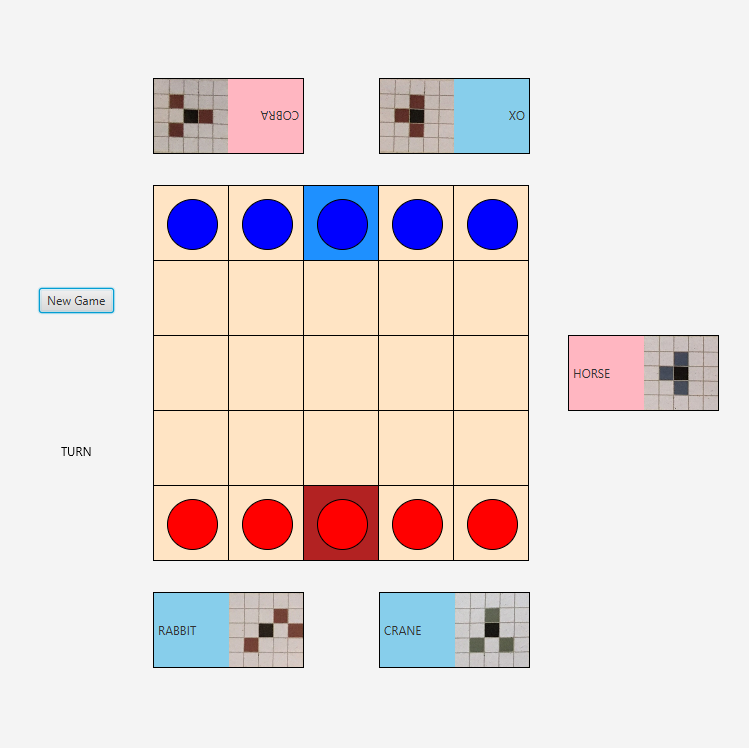
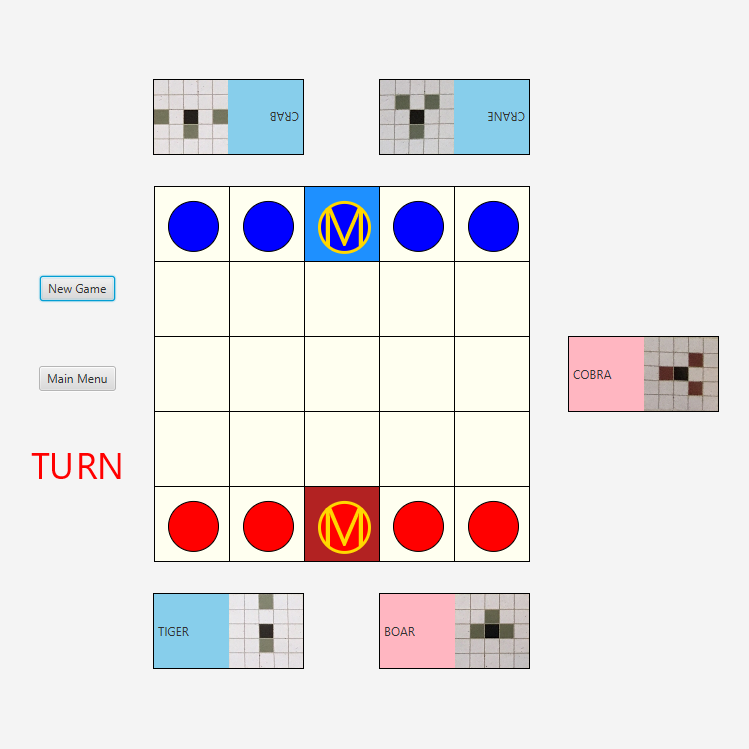
finished

diff --git a/BoardGame/src/game/MainMenu.java b/BoardGame/src/game/MainMenu.java
@@ -1,7 +1,8 @@
 package game;
 
-import java.util.ArrayList;
+//Heavy inspiration from Almas Baimagambetov (almaslvl@gmail.com) to create this game
 
+import java.util.ArrayList;
 import game.Card.CardType;
 import game.MoveResult.MoveType;
 import game.Pawn.PawnSet;
@@ -14,14 +15,13 @@ import javafx.scene.layout.VBox;
 import javafx.scene.paint.Color;
 import javafx.scene.text.Text;
 import javafx.scene.layout.BorderPane;
+import javafx.scene.layout.GridPane;
 import javafx.scene.layout.HBox;
 import javafx.scene.layout.StackPane;
 import javafx.scene.control.Button;
-import javafx.scene.control.Label;
 import javafx.scene.image.ImageView;
 import javafx.scene.image.Image;
 import javafx.geometry.*;
-
 
 public class MainMenu extends Application { 
 	private Stage primaryStage;
@@ -35,96 +35,6 @@ public class MainMenu extends Application {
 		public static final int TILE_SIZE = 75;
 		public static final int WIDTH = 5;
 		public static final int HEIGHT = 5;
-	}
-	
-	private Pawn createPawn(PawnSet set, int x, int y)  {
-		Pawn pawn = new Pawn(set, x, y);
-		
-		pawn.setOnMouseReleased(e -> {
-			int newX = toBoard(pawn.getLayoutX());
-			int newY = toBoard(pawn.getLayoutY());
-			MoveResult result = tryMove(pawn, newX, newY);
-			int x0 = toBoard(pawn.getOldX());
-			int y0 = toBoard(pawn.getOldY());
-			switch(result.getType()) {
-				case NONE:
-					pawn.dontMove();
-					break;
-				case NORMAL:
-					pawn.move(newX, newY);
-					board[x0][y0].setPawn(null);
-					board[newX][newY].setPawn(pawn);
-					break;
-				case KILL:
-					pawn.move(newX, newY);
-					board[x0][y0].setPawn(null);
-					board[newX][newY].setPawn(pawn);
-					Pawn pawn2 = result.getPawn();
-					board[toBoard(pawn2.getOldX())][toBoard(pawn2.getOldY())].setPawn(null);
-					pawnGroup.getChildren().remove(pawn2);
-			}
-		});
-		
-		return pawn;
-	}
-	
-	private MoveResult tryMove(Pawn pawn, int newX, int newY) {
-		if(board[newX][newY].hasPawn() == true) {
-			if (board[newX][newY].getPawn().getSet() == pawn.getSet()) {
-				return new MoveResult(MoveType.NONE);
-			} else {
-				return new MoveResult(MoveType.KILL);
-			}
-		} else {
-			return new MoveResult(MoveType.NORMAL);
-		}
-	}
-	
-	private MasterPawn createMaster(PawnSet set, int x, int y)  {
-		MasterPawn master = new MasterPawn(set, x, y);
-		
-		master.setOnMouseReleased(e -> {
-			int newX = toBoard(master.getLayoutX());
-			int newY = toBoard(master.getLayoutY());
-			MoveResult result = tryMove(master, newX, newY);
-			int x0 = toBoard(master.getOldX());
-			int y0 = toBoard(master.getOldY());
-			switch(result.getType()) {
-				case NONE:
-					master.dontMove();
-					break;
-				case NORMAL:
-					master.move(newX, newY);
-					board[x0][y0].setPawn(null);
-					board[newX][newY].setPawn(master);
-					break;
-				case KILL:
-					master.move(newX, newY);
-					board[x0][y0].setPawn(null);
-					board[newX][newY].setPawn(master);
-					Pawn pawn2 = result.getPawn();
-					board[toBoard(pawn2.getOldX())][toBoard(pawn2.getOldY())].setPawn(null);
-					pawnGroup.getChildren().remove(pawn2);
-			}
-		});
-		
-		return master;
-	}
-	
-	private MoveResult tryMove(MasterPawn master, int newX, int newY) {
-		if(board[newX][newY].hasPawn() == true) {
-			if (board[newX][newY].getPawn().getSet() == master.getSet()) {
-				return new MoveResult(MoveType.NONE);
-			} else {
-				return new MoveResult(MoveType.KILL);
-			}
-		} else {
-			return new MoveResult(MoveType.NORMAL);
-		}
-	}
-	
-	private int toBoard(double pixel) {
-		return (int)(pixel + Constants.TILE_SIZE / 2) / Constants.TILE_SIZE;
 	}
 	
 	public static void main(String[] args) {
@@ -182,8 +92,16 @@ public class MainMenu extends Application {
 		bottom.setPadding(new Insets(0, 65, 80, 0));
 		gameScreen.setBottom(bottom);
 		
-		VBox left = new VBox(130);
+		VBox right = new VBox();
+		Card card5 = new Card(randomCardType());
+		right.getChildren().add(card5);
+		right.setAlignment(Pos.CENTER);
+		right.setPadding(new Insets(0, 30, 0, 0));
+		gameScreen.setRight(right);
+		
+		VBox left = new VBox(65);
 		Text turn = new Text("TURN");
+		turn.setFill(card5.getCardType().getSet().getColor());
 		turn.setScaleX(3);
 		turn.setScaleY(3);
 		Button newGame = new Button("New Game");
@@ -195,18 +113,15 @@ public class MainMenu extends Application {
 			}
 			primaryStage.setScene(new Scene(createGame(), 750, 750));
 		});
-		left.getChildren().addAll(newGame, turn);
+		Button main = new Button("Main Menu");
+		main.setOnAction(e -> {
+			primaryStage.setScene(mainScreen);
+		});
+		left.getChildren().addAll(newGame, main, turn);
 		left.setAlignment(Pos.CENTER);
 		left.setPadding(new Insets(0, 0, 0, 40));
 		gameScreen.setLeft(left);
-		
-		VBox right = new VBox();
-		Card card5 = new Card(randomCardType());
-		right.getChildren().add(card5);
-		right.setAlignment(Pos.CENTER);
-		right.setPadding(new Insets(0, 30, 0, 0));
-		gameScreen.setRight(right);
-		
+
 		StackPane center = new StackPane();
 		for(int y = 0; y < Constants.HEIGHT; y++) {
 			for(int x = 0; x < Constants.WIDTH; x++) {
@@ -249,27 +164,162 @@ public class MainMenu extends Application {
 		return rando;
 	}
 	
-	
 	public Parent createTutorial() {
-		StackPane instruct = new StackPane();
+		Text i1 = new Text("Each player has five pawns (one master + four students) of either blue or red."
+				+ "The pawn's start off on five tiles across from each other with the master pawn located "
+				+ "on the shrine. Five random cards are then displayed on the board. Two are given to the "
+				+ "players (this is your 'hand'), and one is set off to the side. The color of the card"
+				+ " placed to the side dictates who goes first. To play, choose of the cards in your hand. "
+				+ "This will dictate how your pawn will move. The start square (the darkest tile in the "
+				+ "middle) represents your pawn's location and the lighter, colored tiles surrounding it "
+				+ "represent where you can move your pawn. You cannot move the pawn out of the board "
+				+ "(you will break the game doing this too) or to a tile where one of your pawns is already "
+				+ "located. If you move the pawn to a tile occupied by your opponent's pawn, you 'capture' "
+				+ "it, effectively removing it from the game.");
+		i1.setWrappingWidth(650);
+		Text i2 = new Text("You cannot move the pawn out of the board (you will break the game doing this too) "
+				+ "or to a tile where one of your pawns is already located. If you move the pawn to a tile "
+				+ "occupied by your opponent's pawn, you 'capture' it, effectively removing it from the game. "
+				+ "The card you used is then switched with the card set off to the side, ending your turn. It "
+				+ "is then your opponent's turn, repeating the same actions as you. You must always move your "
+				+ "pawn on your turn, unless it is impossible to do so. If that is the case, you may 'pass' your"
+				+ " turn. But you still must exchange one of your cards with the one off to the side. There are "
+				+ "two ways to win: 1.) Capturing your opponent's master pawn or 2.) Landing your master pawn "
+				+ "on the opponent's shrine.");
+		i2.setWrappingWidth(650);
+		
+		StackPane ontiamaImage = new StackPane();
 		ImageView image = new ImageView(new Image("file:boardgame.PNG"));
 		image.setFitHeight(500);
 		image.setFitWidth(500);
-		instruct.getChildren().add(image);
+		ontiamaImage.getChildren().add(image);
+		
+		HBox instructions = new HBox();
+		instructions.setAlignment(Pos.CENTER);
+		instructions.setPadding(new Insets(0, 50, 0, 50));
+		instructions.getChildren().add(i1);
 		
 		HBox buttons = new HBox(50);
 		buttons.setAlignment(Pos.CENTER);
 		buttons.setPadding(new Insets(20, 20, 20, 20));
 		Button goBack = new Button("Return");
 		Button next = new Button("Next");
+		next.setOnAction(e -> {
+			instructions.getChildren().clear();
+			instructions.getChildren().add(i2);
+		});
 		Button prev = new Button("Previous");
+		prev.setOnAction(e -> {
+			instructions.getChildren().clear();
+			instructions.getChildren().add(i1);
+		});
 		goBack.setOnAction(e -> primaryStage.setScene(mainScreen));
-		
 		buttons.getChildren().addAll(goBack, prev, next);
+		
+		GridPane gp = new GridPane();
+		gp.setVgap(50);
+		gp.add(instructions, 0, 0);
+		gp.add(buttons, 0, 1);
+		
 		BorderPane tutMenu = new BorderPane();
-		tutMenu.setCenter(instruct);
-		tutMenu.setBottom(buttons);
+		tutMenu.setCenter(ontiamaImage);
+		tutMenu.setBottom(gp);
 		return tutMenu;
 	}
 
+	private Pawn createPawn(PawnSet set, int x, int y)  {
+		Pawn pawn = new Pawn(set, x, y);
+		
+		pawn.setOnMouseReleased(e -> {
+			int endX = toTile(pawn.getLayoutX());
+			int endY = toTile(pawn.getLayoutY());
+			MoveResult result = tryMove(pawn, endX, endY);
+			int startX = toTile(pawn.getOldX());
+			int startY = toTile(pawn.getOldY());
+			switch(result.getType()) {
+				case ILLEGAL:
+					pawn.dontMove();
+					break;
+				case LEGAL:
+					pawn.move(endX, endY);
+					board[startX][startY].setPawn(null);
+					board[endX][endY].setPawn(pawn);
+					break;
+				case CAPTURE:
+					pawn.move(endX, endY);
+					board[startX][startY].setPawn(null);
+					board[endX][endY].setPawn(pawn);
+					Pawn pawn2 = result.getPawn();
+					board[toTile(pawn2.getOldX())][toTile(pawn2.getOldY())].setPawn(null);
+					pawnGroup.getChildren().remove(pawn2);
+			}
+		});
+		
+		return pawn;
+	}
+	
+	private MoveResult tryMove(Pawn pawn, int endX, int endY) {
+		if(board[endX][endY].hasPawn() == true) {
+			if (board[endX][endY].getPawn().getSet() == pawn.getSet()) {
+				return new MoveResult(MoveType.ILLEGAL);
+			} else {
+				int x1 = toTile(pawn.getOldX()) + (endX - toTile(pawn.getOldX()));
+				int y1 = toTile(pawn.getOldY()) + (endY - toTile(pawn.getOldY()));
+				return new MoveResult(MoveType.CAPTURE, board[x1][y1].getPawn());
+			}
+		} else {
+			return new MoveResult(MoveType.LEGAL);
+		}
+	}
+	
+	private MasterPawn createMaster(PawnSet set, int x, int y)  {
+		MasterPawn master = new MasterPawn(set, x, y);
+		
+		master.setOnMouseReleased(e -> {
+			int endX = toTile(master.getLayoutX());
+			int endY = toTile(master.getLayoutY());
+			MoveResult result = tryMove(master, endX, endY);
+			int startX = toTile(master.getOldX());
+			int startY = toTile(master.getOldY());
+			switch(result.getType()) {
+				case ILLEGAL:
+					master.dontMove();
+					break;
+				case LEGAL:
+					master.move(endX, endY);
+					board[startX][startY].setPawn(null);
+					board[endX][endY].setPawn(master);
+					break;
+				case CAPTURE:
+					master.move(endX, endY);
+					board[startX][startY].setPawn(null);
+					board[endX][endY].setPawn(master);
+					Pawn pawn2 = result.getPawn();
+					board[toTile(pawn2.getOldX())][toTile(pawn2.getOldY())].setPawn(null);
+					pawnGroup.getChildren().remove(pawn2);
+			}
+		});
+		
+		return master;
+	}
+	
+	private MoveResult tryMove(MasterPawn master, int endX, int endY) {
+		if(board[endX][endY].hasPawn() == true) {
+			if (board[endX][endY].getPawn().getSet() == master.getSet()) {
+				return new MoveResult(MoveType.ILLEGAL);
+			} else {
+				int x1 = toTile(master.getOldX()) + (endX - toTile(master.getOldX()));
+				int y1 = toTile(master.getOldY()) + (endY - toTile(master.getOldY()));
+				return new MoveResult(MoveType.CAPTURE, board[x1][y1].getPawn());
+			}
+		} else {
+			return new MoveResult(MoveType.LEGAL);
+		}
+	}
+	
+	private int toTile(double location) {
+		return (int)(location + Constants.TILE_SIZE / 2) / Constants.TILE_SIZE;
+	}
+	
+	
 }

diff --git a/BoardGame/src/game/Pawn.java b/BoardGame/src/game/Pawn.java
@@ -20,7 +20,7 @@ public class Pawn extends StackPane {
 		circle.setTranslateY((Constants.TILE_SIZE - 69) / 2);
 		
 		getChildren().add(circle);
-		
+
 		setOnMousePressed(e -> {
 			mouseX = e.getSceneX();
 			mouseY = e.getSceneY();
@@ -36,7 +36,16 @@ public class Pawn extends StackPane {
 	}
 	
 	public enum PawnSet {
-		RED, BLUE;
+		RED(Color.RED), BLUE(Color.BLUE);
+		
+		final Color color;
+		PawnSet(Color color) {
+			this.color = color;
+		}
+		
+		public Color getColor() {
+			return color;
+		}
 	}
 	
 	public PawnSet getSet() {
@@ -59,10 +68,6 @@ public class Pawn extends StackPane {
 	
 	public void dontMove() {
 		relocate(oldX, oldY);
-	}
-	
-	public boolean isCaptured() {
-		return false;
 	}
 	
 }

diff --git a/BoardGame/src/game/MoveResult.java b/BoardGame/src/game/MoveResult.java
@@ -5,7 +5,7 @@ public class MoveResult {
 	private Pawn pawn;
 	
 	public enum MoveType {
-		NONE, NORMAL, KILL;
+		ILLEGAL, LEGAL, CAPTURE;
 	}
 	
 	public MoveResult(MoveType type, Pawn pawn) {

diff --git a/BoardGame/src/game/Card.java b/BoardGame/src/game/Card.java
@@ -63,6 +63,5 @@ public class Card extends StackPane {
 	public CardType getCardType() {
 		return type;
 	}
-
 	
 }
